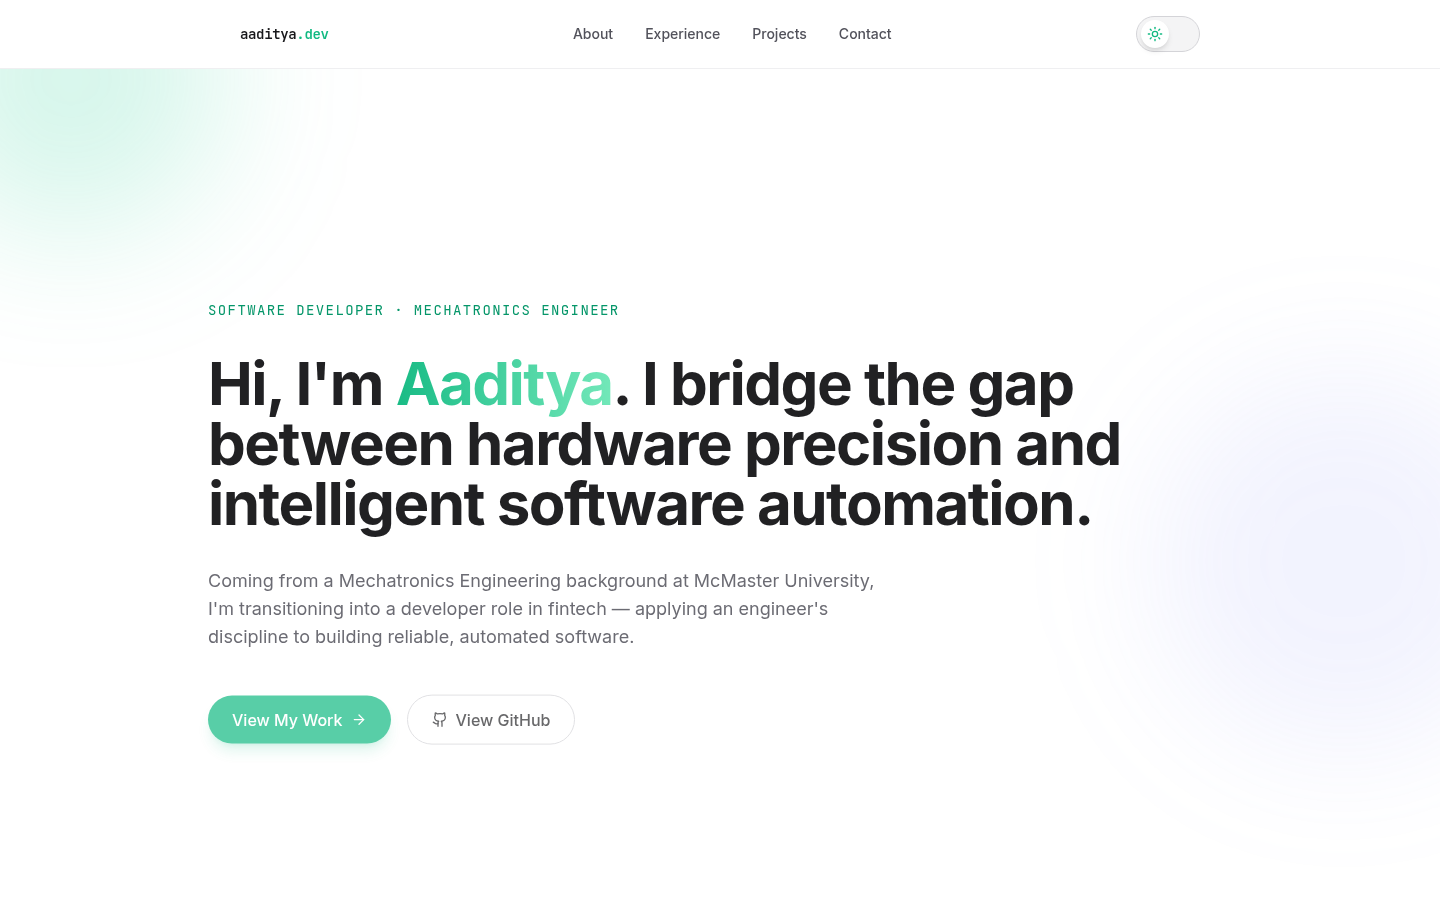
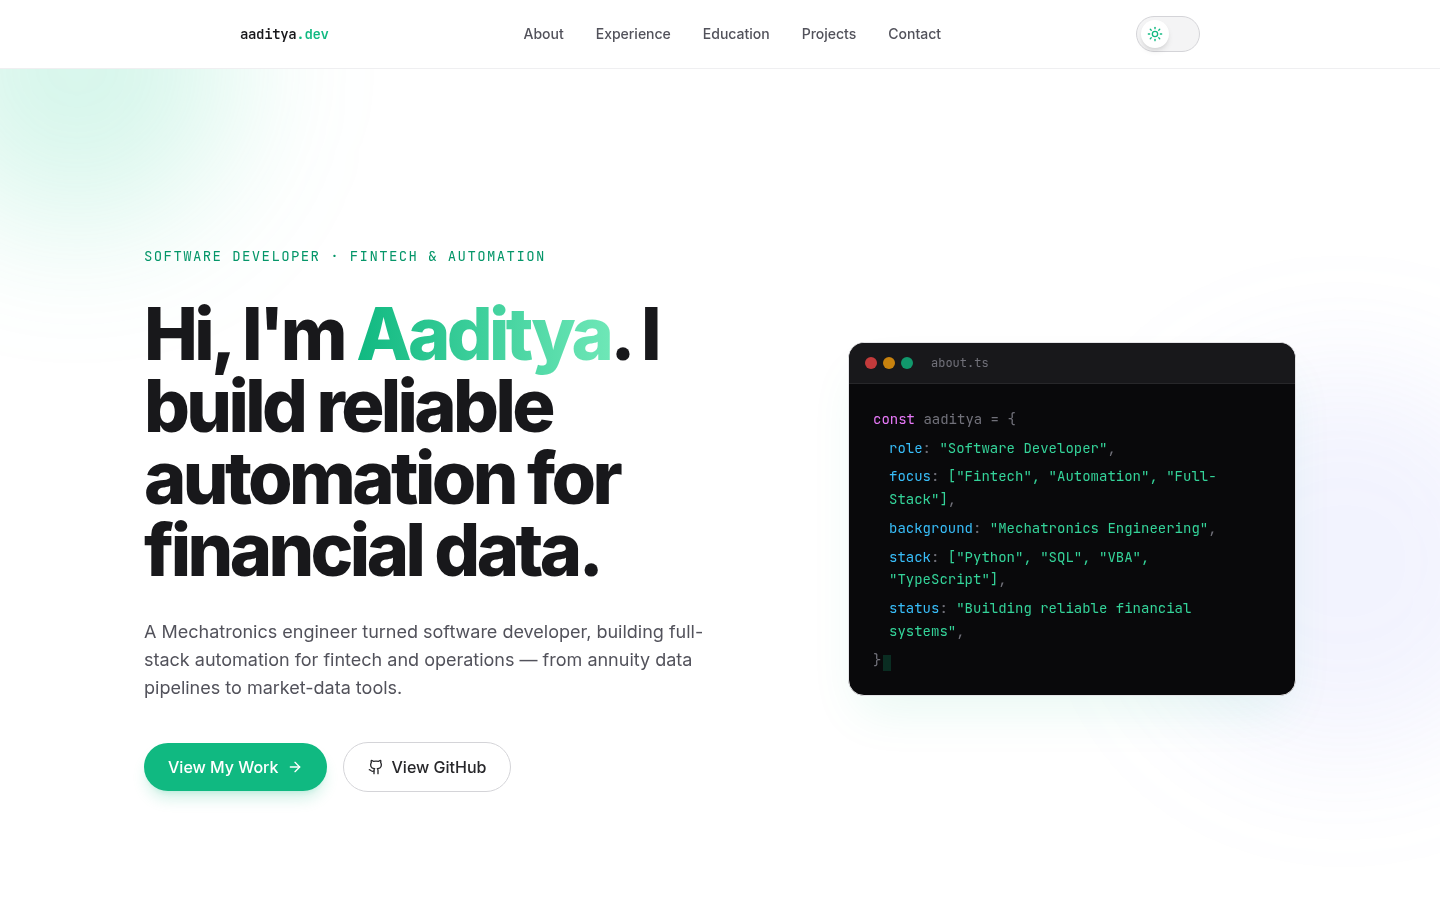
Refresh README to match current project structure
The README still described the original two-JSON, no-nav, plain-hero
version of the site. Update the structure section to include Nav,
Education, Timeline, lib/config.ts, and lib/colors.ts, and swap the
hero screenshot for the current design (code-card visual, fintech
copy, full nav with Education link).

Claude-Session: https://claude.ai/code/session_01TkUyJKcSZXL8RaVWxvqkoG

diff --git a/README.md b/README.md
@@ -7,9 +7,9 @@ A personal portfolio site built with Next.js 14 (App Router, TypeScript), Tailwi
 ## Stack
 
 - **Framework:** Next.js 14 (App Router)
-- **Styling:** Tailwind CSS (dark-mode-first, emerald accent)
+- **Styling:** Tailwind CSS (dark-mode-first, emerald accent with secondary sky/amber/fuchsia accents)
 - **Animation:** Framer Motion
-- **Content:** Local JSON in `/data` (`projects.json`, `experience.json`)
+- **Content:** Local JSON in `/data` (`projects.json`, `experience.json`, `education.json`)
 
 ## Getting Started
 
@@ -23,12 +23,38 @@ Open [http://localhost:3000](http://localhost:3000).
 ## Structure
 
 ```
-/app            layout, page, global styles
-/components     Aaditya (hero), About, Experience, Projects, Contact, ThemeToggle
-/data           projects.json, experience.json
-/lib            ThemeContext, types, filter logic
+/app
+  layout.tsx              root layout, fonts, theme init script
+  page.tsx                composes all sections
+  globals.css             Tailwind layers, scrollbar/selection styling
+/components
+  /Aaditya                hero section (headline, CTAs, code-card visual)
+  /About                  bio + "Beyond the Code" interests grid
+  /Experience              work-history timeline
+  /Education               education timeline (split from Experience)
+  /Timeline                shared TimelineCard used by Experience & Education
+  /Projects                filterable project grid + ProjectCard
+  /Contact                 floating icon links (email, LinkedIn, GitHub)
+  /Nav                     sticky header, desktop nav + mobile hamburger menu
+  /ThemeToggle             animated light/dark switch
+/data
+  projects.json           project entries (title, tags, tech, links)
+  experience.json         work history entries
+  education.json          education entries
+/lib
+  ThemeContext.tsx        theme provider/context (localStorage + system pref)
+  config.ts               shared social links (GitHub, LinkedIn, email)
+  colors.ts               tag/accent color maps for project tags & timeline types
+  filterProjects.ts       project tag filter logic + filter list
+  types.ts                shared TypeScript interfaces
 ```
 
 ## Editing Content
 
-Update `/data/projects.json` and `/data/experience.json` — no component code changes required.
+Update `/data/projects.json`, `/data/experience.json`, and `/data/education.json` — no component code changes required. Social links live in `/lib/config.ts`.
+
+## Development Notes
+
+- Sections use `scroll-mt-24` to clear the sticky header on anchor navigation.
+- The mobile nav panel is positioned as an absolute overlay (not in-flow) so it doesn't interfere with anchor scrolling.
+- Theme choice persists to `localStorage` and falls back to `prefers-color-scheme` on first load, with an inline script in `layout.tsx` to avoid a flash of the wrong theme.
